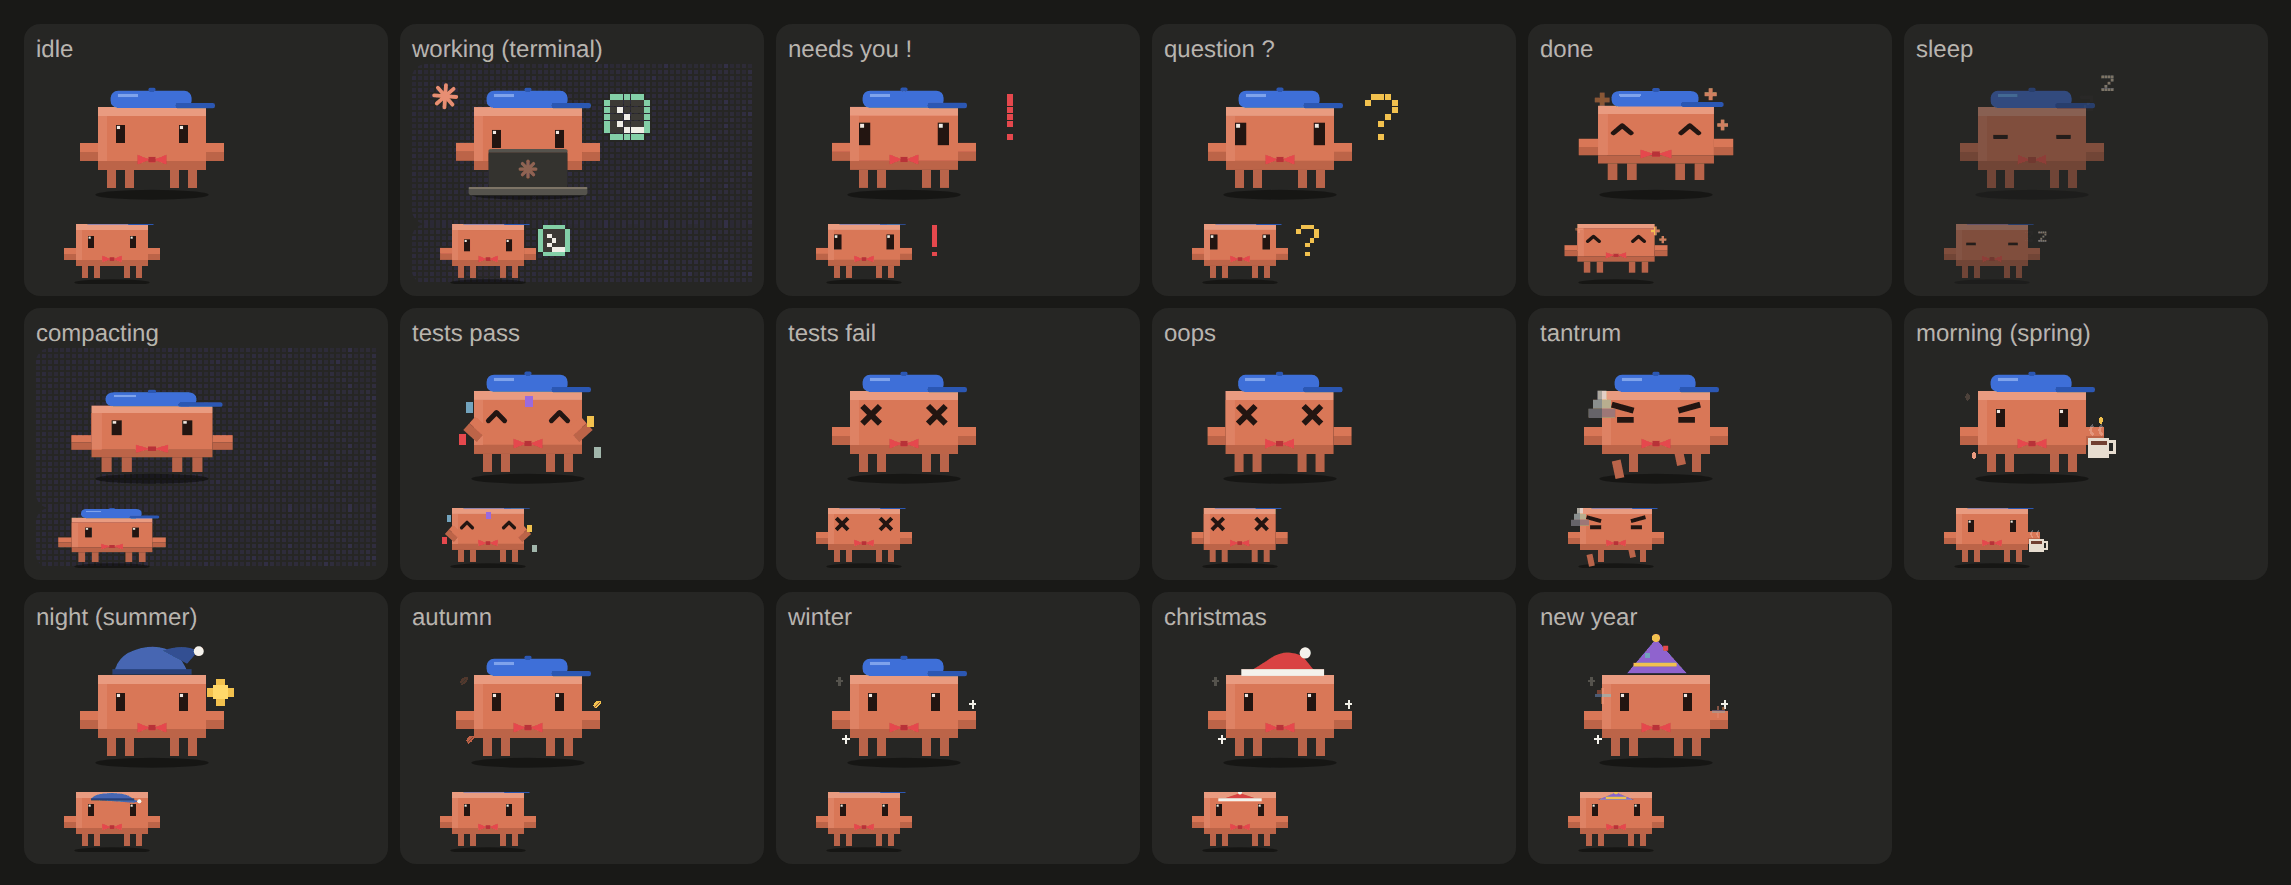
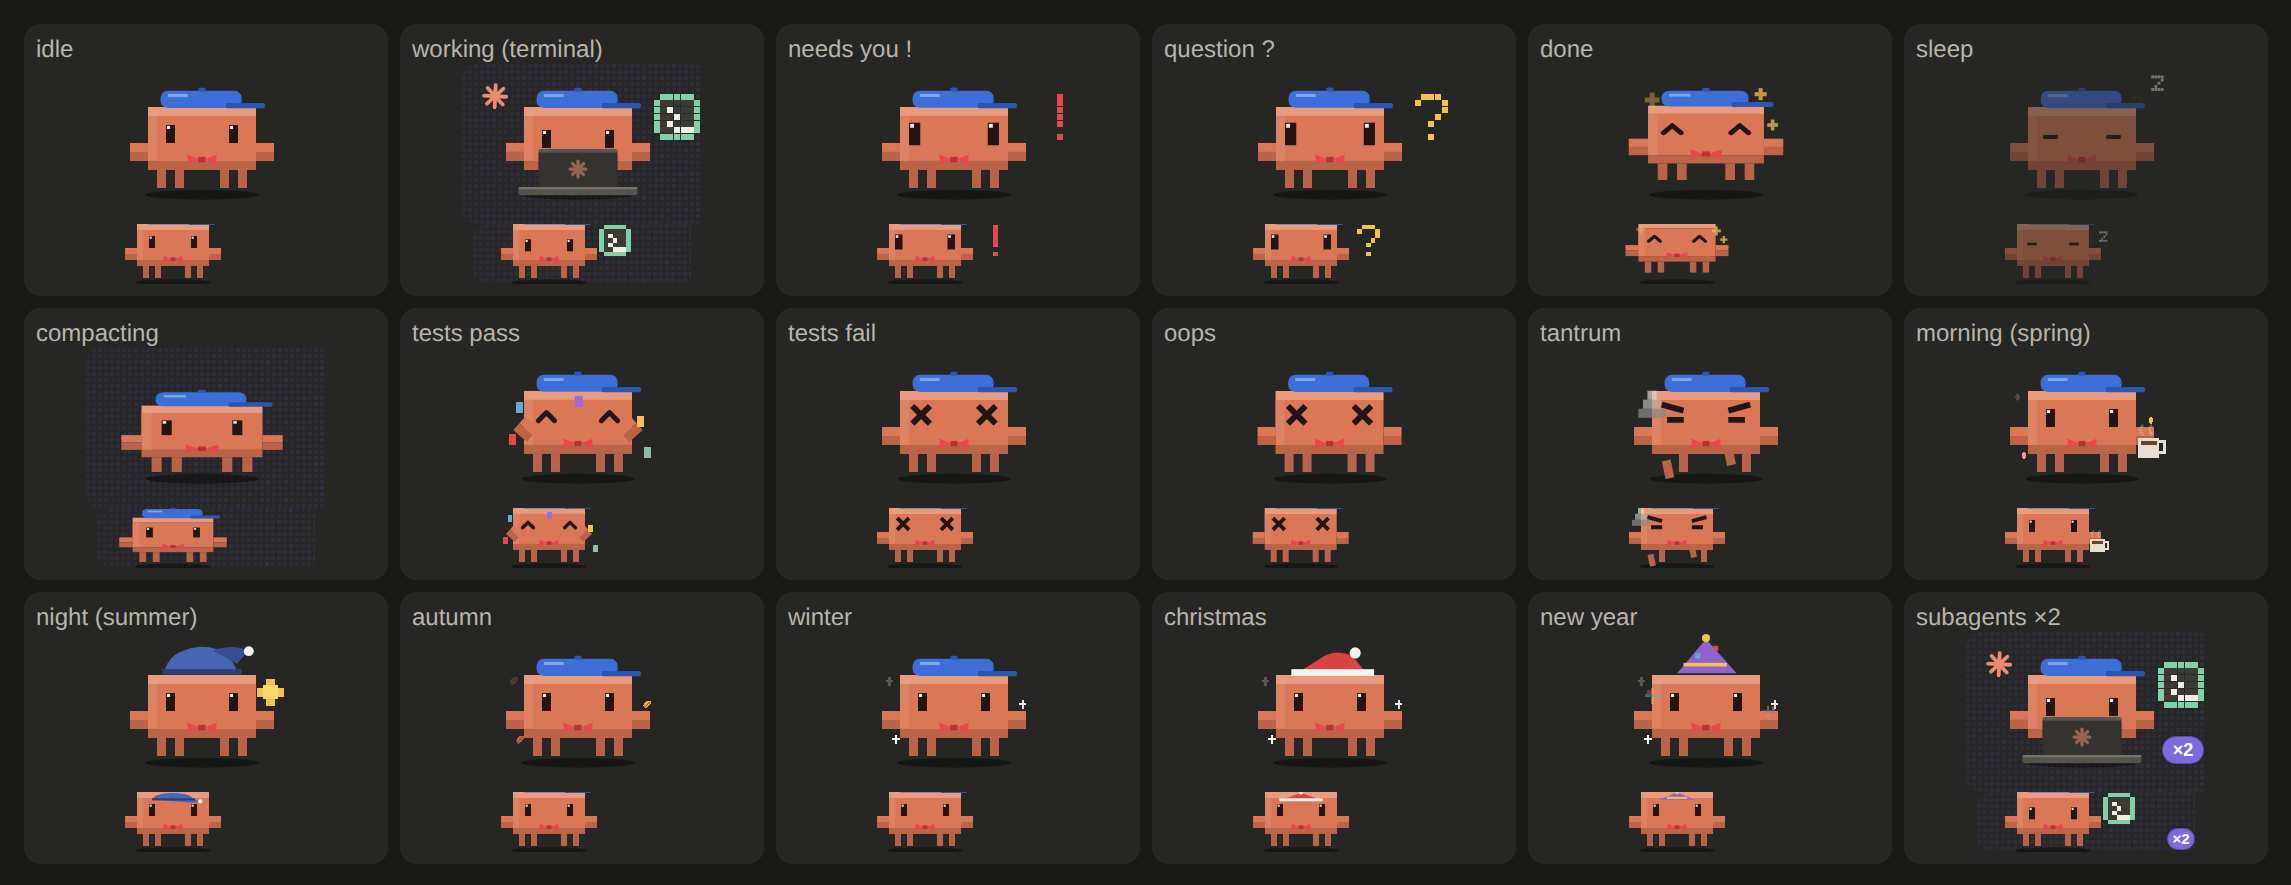
docs: refresh README images for usage-pet 1.16.1
Regenerate the demo GIF, the light/dark preview and the looks grid from
the real 1.16.1 band SVG. They now show the auto-compact tick on the
Context ring, the purple xN subagent badge (a new subagent scene in the
GIF and a new tile in the looks grid) and the reserved-icon spacing.
Image alt texts updated to match. No version change.

diff --git a/README.md b/README.md
@@ -3,7 +3,7 @@
 为 **Claude 桌面 App 的 Code 页** 做的 mod（Claude Code 插件）。
 Mods for the **Code tab of the Claude Desktop app**.
 
-![Working with the terminal tool icon and purple pixel dither, editing with a pencil icon, Claude asks a question with a blinking “?”, then after the reply Clawd is happy as the rings count up with +N% chips. A Cost block with a $ badge stays after Cache hit, changing from $3.86 to $4.27; idle shows the “60m” cache countdown](assets/usage-pet-demo.gif)
+![Working with the terminal icon and purple pixel dither; a purple “×2” subagent badge appears beside Clawd while two subagents run, and “×1” appears with the pencil icon. Claude asks a question with a blinking “?”; after the reply Clawd is happy as the rings count up with +N% chips. The Context ring has a tick at the auto-compact point; the Cost block changes from $3.86 to $4.27; idle shows the “60m” cache countdown](assets/usage-pet-demo.gif)
 
 > **让 AI 代理帮你装？/ Installing with an AI agent?** 让它在终端运行下面两行 · Have it run these two commands in a shell:
 >
@@ -30,9 +30,9 @@ Forked from [manson341349-beep/claude-desktop-mods](https://github.com/manson341
 | --- | --- |
 | [`usage-pet`](plugins/usage-pet) | 输入框上方的用量信息栏 + Clawd 像素桌宠 · A usage band above the prompt with Clawd, an animated pixel pet |
 
-![Light mode shows the expanded band in chill mode with sunglasses and a crown, including a $ badge and “Cost $4.27 This session” after Cache hit, plus a collapsed editing strip showing “Cost $4.27”. Dark mode shows work with a terminal icon and purple dither, near-limit amber and red rings, and a collapsed idle Clawd wearing a nightcap; each band has the Cost block after Cache hit](assets/usage-pet-preview.png)
+![Light mode shows the expanded band in chill mode with sunglasses and a crown, a small auto-compact tick on the Context ring, and the Cost block after Cache hit; a collapsed editing strip appears below. Dark mode shows work with a terminal icon, purple dither and a purple “×2” subagent badge, near-limit amber and red rings, and a collapsed idle Clawd wearing a nightcap](assets/usage-pet-preview.png)
 
-![A grid of Clawd's looks, each shown expanded and collapsed: idle, working with a terminal icon, needs you (!), question (?), done, sleep, compacting, tests pass, tests fail, oops, tantrum, morning coffee, night cap, autumn, winter, Christmas and New Year](assets/usage-pet-looks.png)
+![A grid of Clawd's looks, each shown expanded and collapsed: idle, working with a terminal icon, needs you (!), question (?), done, sleep, compacting, tests pass, tests fail, oops, tantrum, morning coffee, night cap, autumn, winter, Christmas, New Year and subagents ×2 working with a terminal icon and a ×2 badge](assets/usage-pet-looks.png)
 
 ---
 

diff --git a/plugins/usage-pet/README.md b/plugins/usage-pet/README.md
@@ -2,9 +2,9 @@
 
 A usage band above the prompt in the **Code tab of Claude Desktop**: context, 5-hour limit, weekly limit and cache hit rate, plus an optional Fable weekly ring, with Clawd, a pixel pet who keeps you company while Claude works. Current version: **1.16.1**.
 
-![Light mode shows the expanded band in chill mode with sunglasses and a crown, including a $ badge and “Cost $4.27 This session” after Cache hit, plus a collapsed editing strip showing “Cost $4.27”. Dark mode shows work with a terminal icon and purple dither, near-limit amber and red rings, and a collapsed idle Clawd wearing a nightcap; every band has the Cost block after Cache hit](https://raw.githubusercontent.com/Geek0x0/claude-desktop-mods/main/assets/usage-pet-preview.png)
+![Light mode shows the expanded band in chill mode with sunglasses and a crown, a small auto-compact tick on the Context ring, and the Cost block after Cache hit; a collapsed editing strip appears below. Dark mode shows work with a terminal icon, purple dither and a purple “×2” subagent badge, near-limit amber and red rings, and a collapsed idle Clawd wearing a nightcap](https://raw.githubusercontent.com/Geek0x0/claude-desktop-mods/main/assets/usage-pet-preview.png)
 
-![A grid of Clawd's looks, each shown expanded and collapsed: idle, working with a terminal icon, needs you (!), question (?), done, sleep, compacting, tests pass, tests fail, oops, tantrum, morning coffee, night cap, autumn, winter, Christmas and New Year](https://raw.githubusercontent.com/Geek0x0/claude-desktop-mods/main/assets/usage-pet-looks.png)
+![A grid of Clawd's looks, each shown expanded and collapsed: idle, working with a terminal icon, needs you (!), question (?), done, sleep, compacting, tests pass, tests fail, oops, tantrum, morning coffee, night cap, autumn, winter, Christmas, New Year and subagents ×2 working with a terminal icon and a ×2 badge](https://raw.githubusercontent.com/Geek0x0/claude-desktop-mods/main/assets/usage-pet-looks.png)
 
 > Unofficial fan project. Not affiliated with or endorsed by Anthropic. Clawd is Anthropic's mascot; the pixel version here is fan-made.
 
